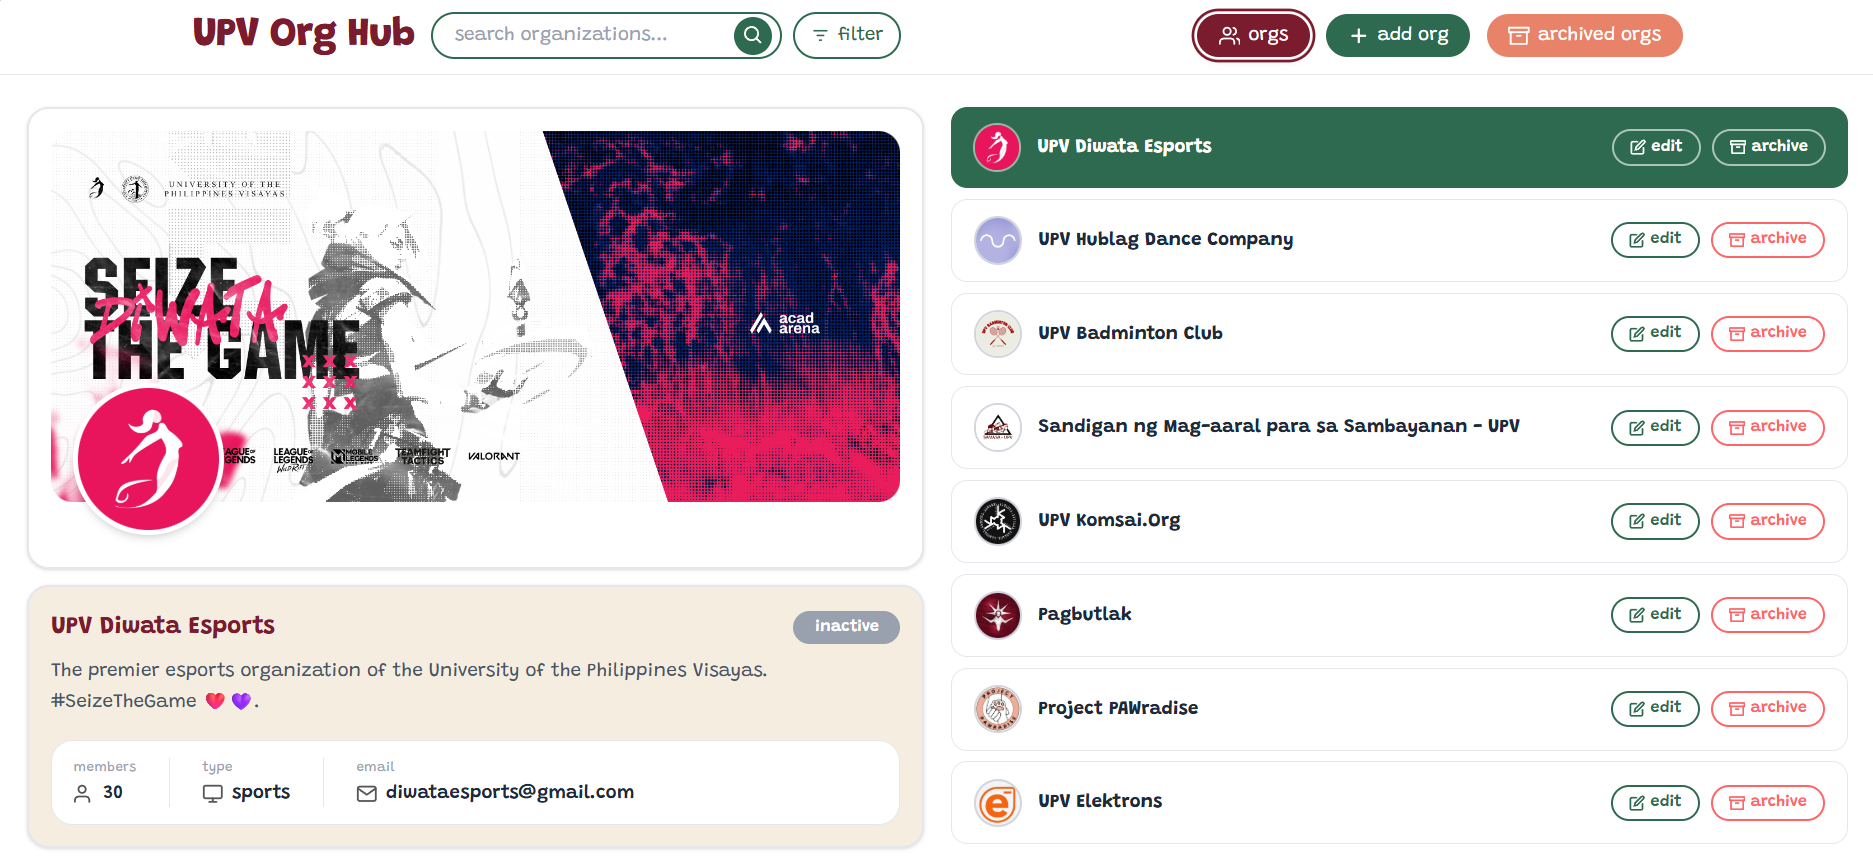
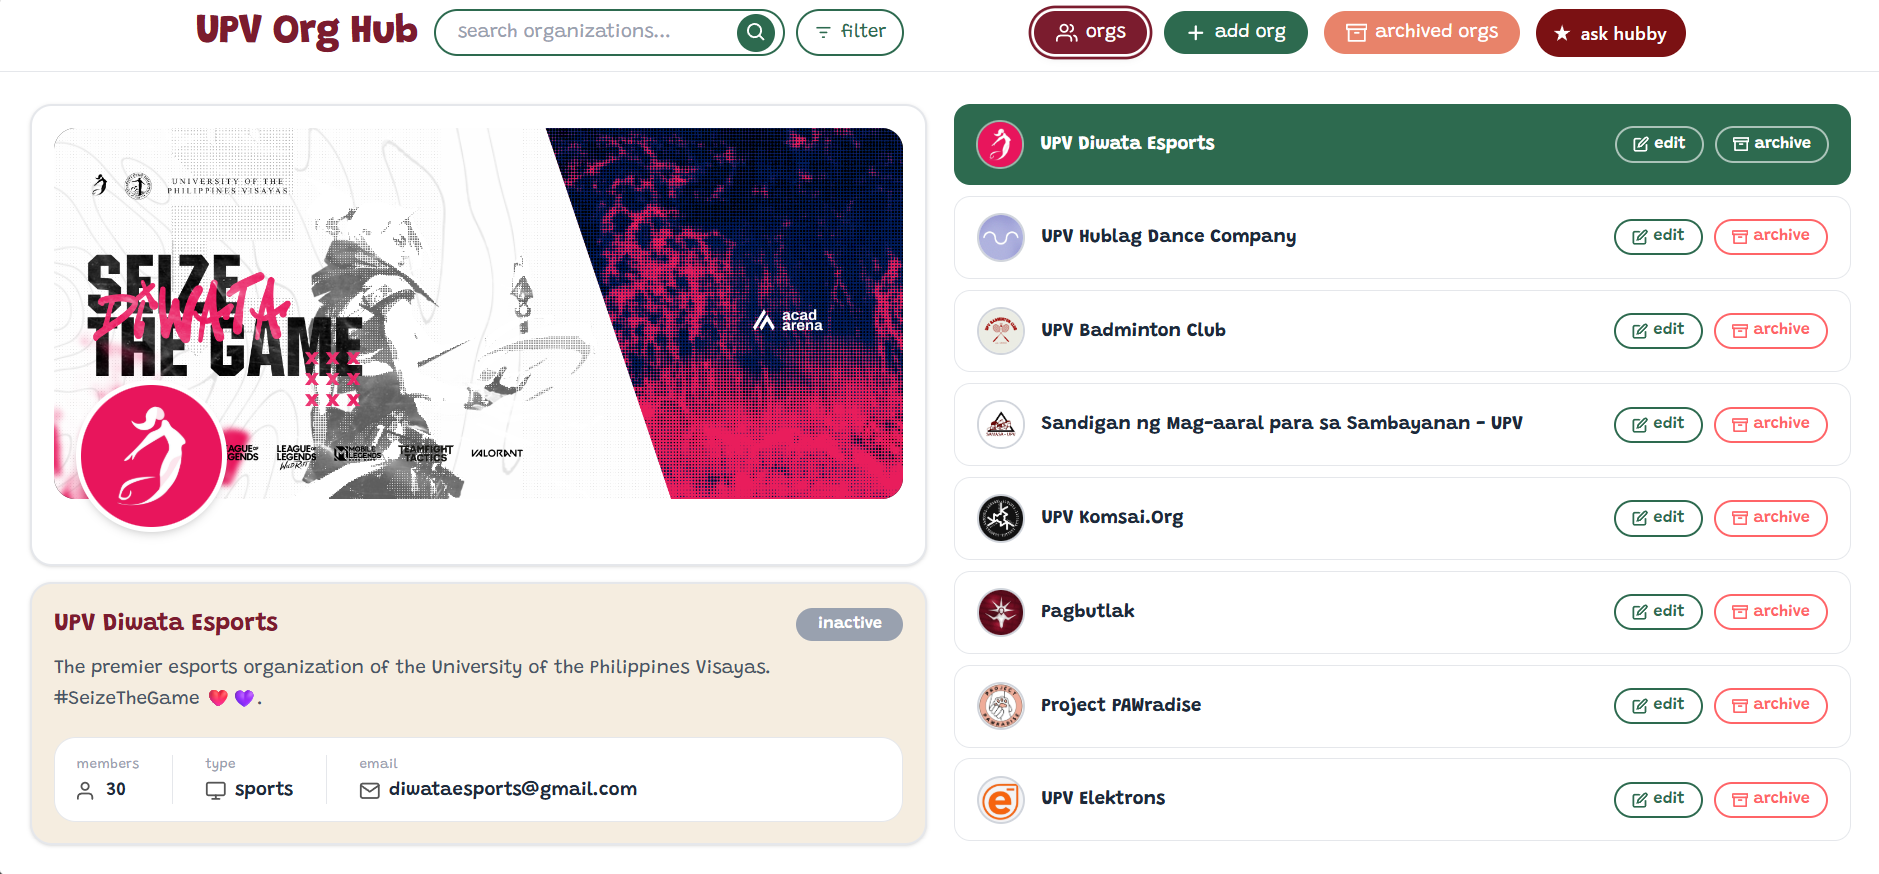
bug fix and updated readme screenshots

diff --git a/resources/js/chatbot.js b/resources/js/chatbot.js
@@ -4,8 +4,7 @@
   const executeUrl     = wrapper?.dataset.executeUrl;
   const window_el      = document.getElementById('chat-window');
   const toggle         = document.getElementById('chat-toggle');
-  const toggleLabel    = document.getElementById('chat-toggle-label');
-  const notifDot       = document.getElementById('chat-notif-dot');
+  const notifDot       = document.getElementById('chat-notif-dot');  // may be null
   const messages       = document.getElementById('chat-messages');
   const typingEl       = document.getElementById('chat-typing');
   const input          = document.getElementById('chat-input');
@@ -27,10 +26,9 @@
   // ── open/close chat window ──
   toggle?.addEventListener('click', () => {
     const isOpen = window_el.classList.toggle('open');
-
-
-    if (toggleLabel) toggleLabel.textContent = isOpen ? 'close' : 'ask hubby';
-    if (isOpen) { notifDot.style.display = 'none'; input.focus(); }
+    const label = document.getElementById('chat-toggle-label');
+    if (label) label.textContent = isOpen ? 'close' : 'ask hubby';
+    if (isOpen) { if (notifDot) notifDot.style.display = 'none'; input?.focus(); }
   });
 
   // ── CRUD mode toggle ──
@@ -96,7 +94,7 @@
 
     input.value = '';
     input.style.height = 'auto';
-    notifDot.style.display = 'none';
+    if (notifDot) notifDot.style.display = 'none';
 
     appendMsg('user', escapeHtml(text));
     history.push({ role: 'user', content: text });

diff --git a/README.md b/README.md
@@ -191,6 +191,8 @@ php artisan migrate:fresh --seed
 | <img src="screenshots/addorg.png"> |
 | Edit Organization |
 | <img src="screenshots/editorg.png"> |
+| AI Query |
+| <img src="screenshots/aiquery.png"> |
 ---
 
 ## Features
